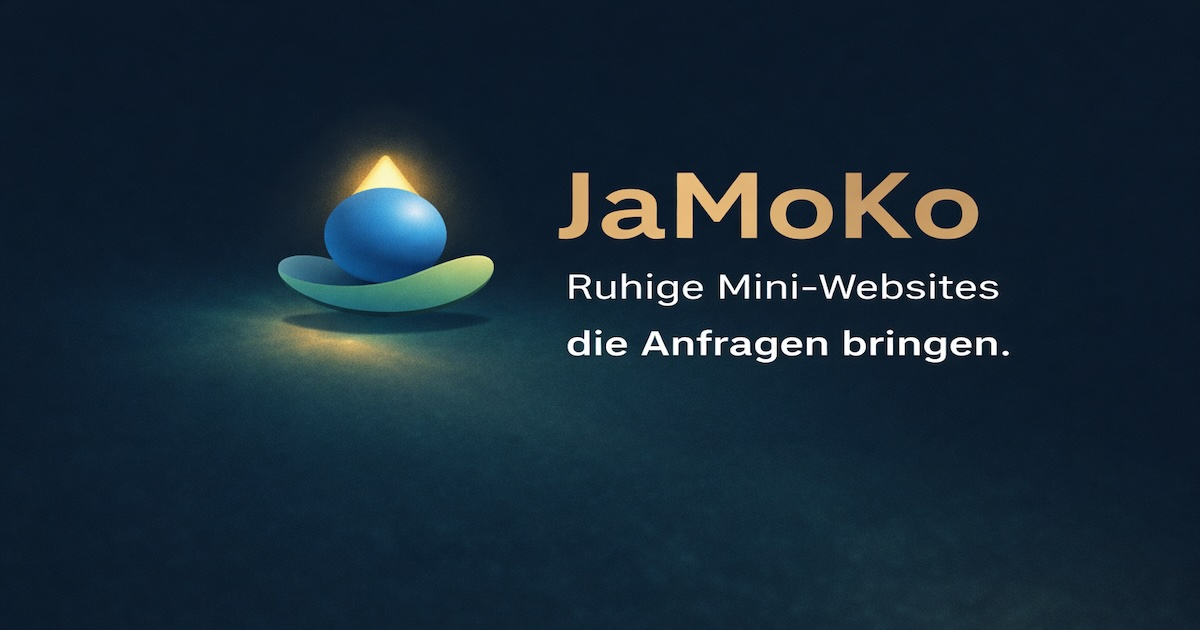
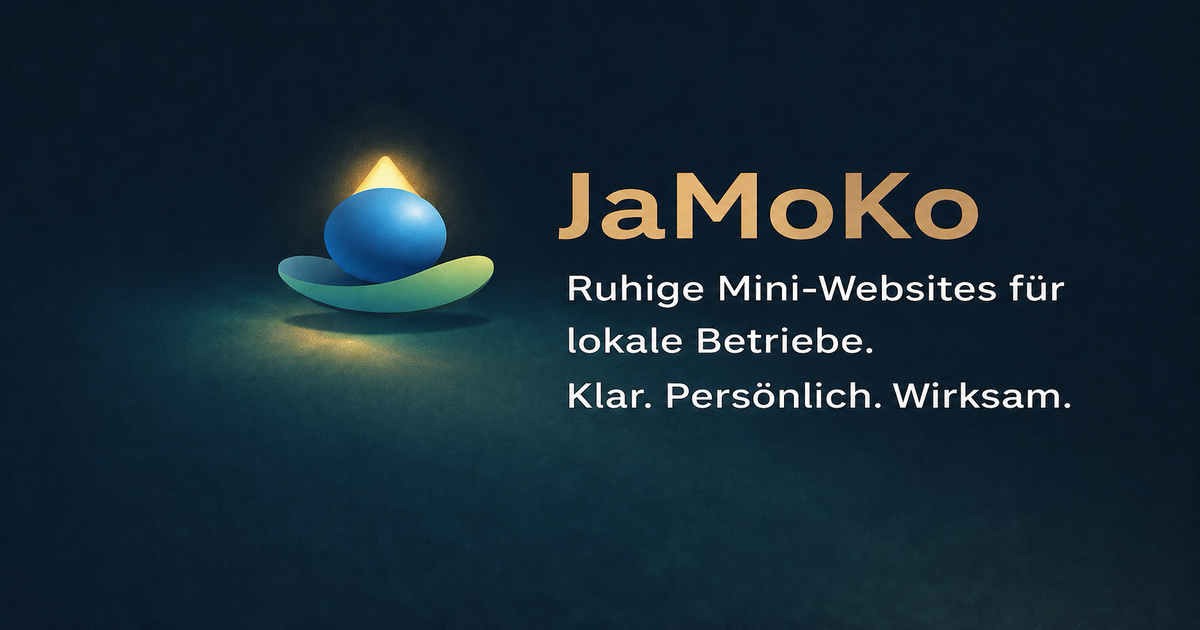
Update LinkedIn website preview

diff --git a/app/layout.tsx b/app/layout.tsx
@@ -8,15 +8,15 @@ import "./globals.css";
 export const metadata: Metadata = {
   metadataBase: new URL("https://jamoko.de"),
   title: {
-    default: "JaMoKo – Webdesign Hamburg für lokale Unternehmen",
+    default: "JaMoKo – Websites für Handwerksbetriebe",
     template: "%s · JaMoKo",
   },
   description:
-    "Klare Websites aus Hamburg für lokale Betriebe, Handwerker, Dienstleister und Selbstständige. Persönlich entwickelt, mobil optimiert und verständlich umgesetzt.",
+    "Klare Websites für Handwerksbetriebe und lokale Unternehmen – persönlich begleitet von der Struktur bis zur Veröffentlichung.",
   openGraph: {
-    title: "JaMoKo – Webdesign Hamburg für lokale Unternehmen",
+    title: "JaMoKo – Websites für Handwerksbetriebe",
     description:
-      "Klare Websites aus Hamburg für lokale Betriebe, Handwerker, Dienstleister und Selbstständige. Persönlich entwickelt, mobil optimiert und verständlich umgesetzt.",
+      "Klare Websites für Handwerksbetriebe und lokale Unternehmen – persönlich begleitet von der Struktur bis zur Veröffentlichung.",
     url: "https://jamoko.de",
     siteName: "JaMoKo",
     locale: "de_DE",
@@ -26,7 +26,7 @@ export const metadata: Metadata = {
         url: "/og-image.png",
         width: 1200,
         height: 630,
-        alt: "JaMoKo – Webdesign Hamburg für lokale Unternehmen",
+        alt: "JaMoKo – Websites für Handwerksbetriebe",
       },
     ],
   },

diff --git a/app/page.tsx b/app/page.tsx
@@ -17,23 +17,23 @@ import { ConceptPlaceholder } from "@/components/landing/ConceptPlaceholder";
 import { StructuredData, homePageJsonLd } from "./structured-data";
 
 export const metadata: Metadata = {
-  title: "JaMoKo – Webdesign Hamburg für lokale Unternehmen",
+  title: "JaMoKo – Websites für Handwerksbetriebe",
   description:
-    "Klare Websites für lokale Betriebe, Handwerker, Dienstleister und Selbstständige. Persönlich entwickelt, mobil optimiert und verständlich umgesetzt.",
+    "Klare Websites für Handwerksbetriebe und lokale Unternehmen – persönlich begleitet von der Struktur bis zur Veröffentlichung.",
   alternates: {
     canonical: "https://jamoko.de",
   },
   openGraph: {
-    title: "JaMoKo – Webdesign Hamburg für lokale Unternehmen",
+    title: "JaMoKo – Websites für Handwerksbetriebe",
     description:
-      "Klare Websites für lokale Betriebe, Handwerker, Dienstleister und Selbstständige. Persönlich entwickelt, mobil optimiert und verständlich umgesetzt.",
+      "Klare Websites für Handwerksbetriebe und lokale Unternehmen – persönlich begleitet von der Struktur bis zur Veröffentlichung.",
     url: "https://jamoko.de",
     images: [
       {
         url: "/og-image.png",
         width: 1200,
         height: 630,
-        alt: "JaMoKo – Webdesign Hamburg",
+        alt: "JaMoKo – Websites für Handwerksbetriebe",
       },
     ],
   },
